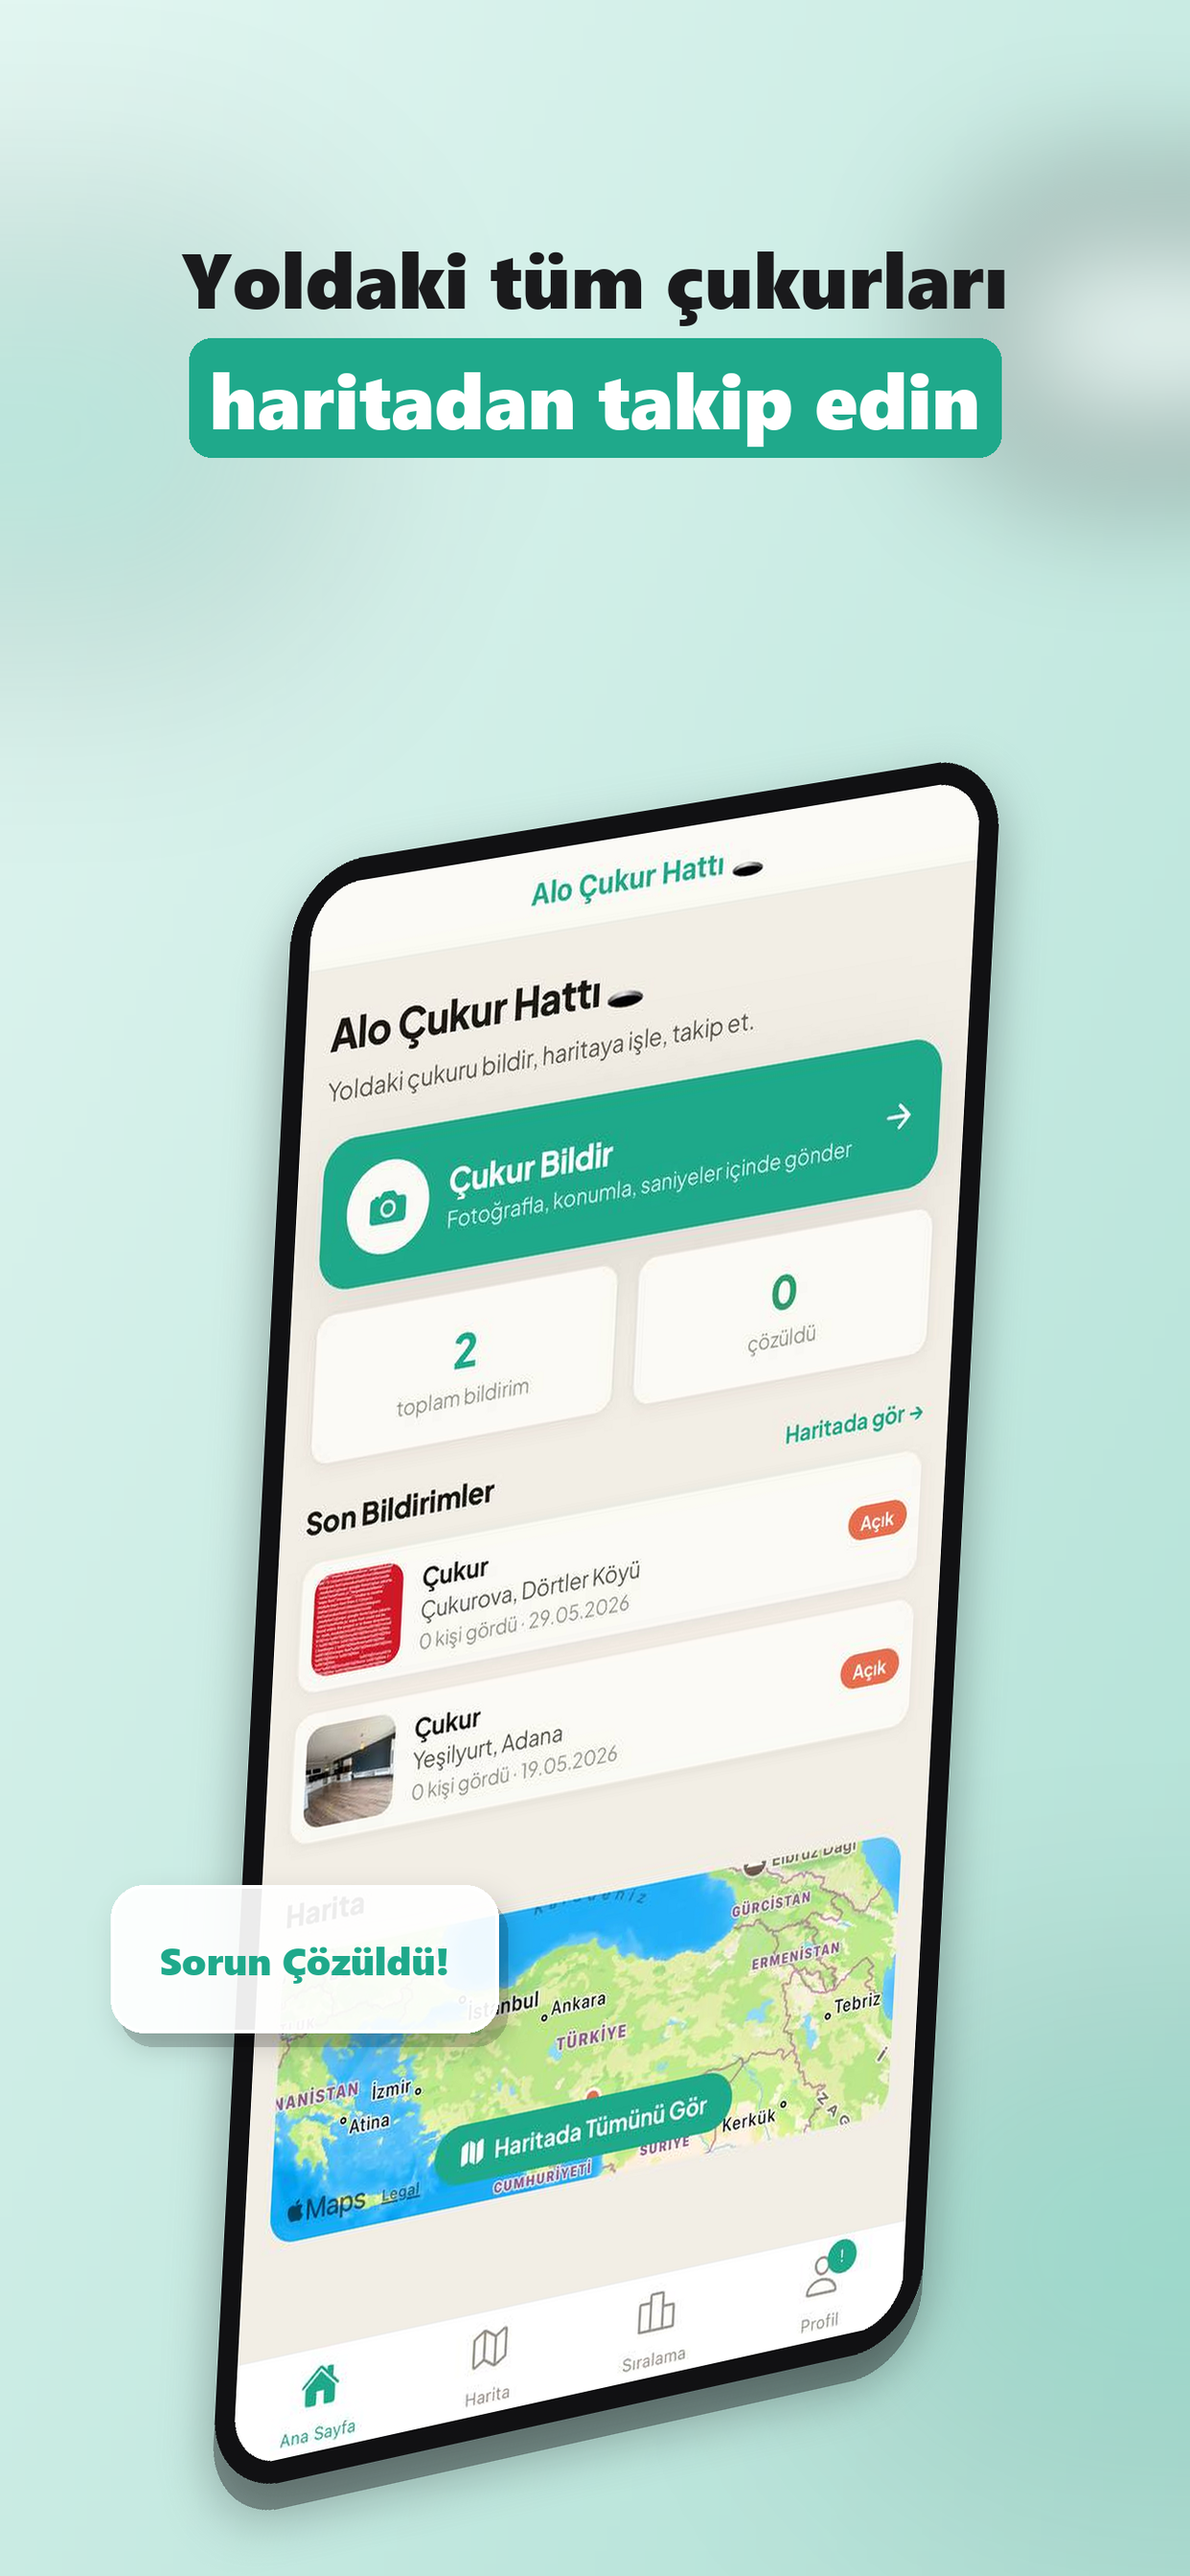
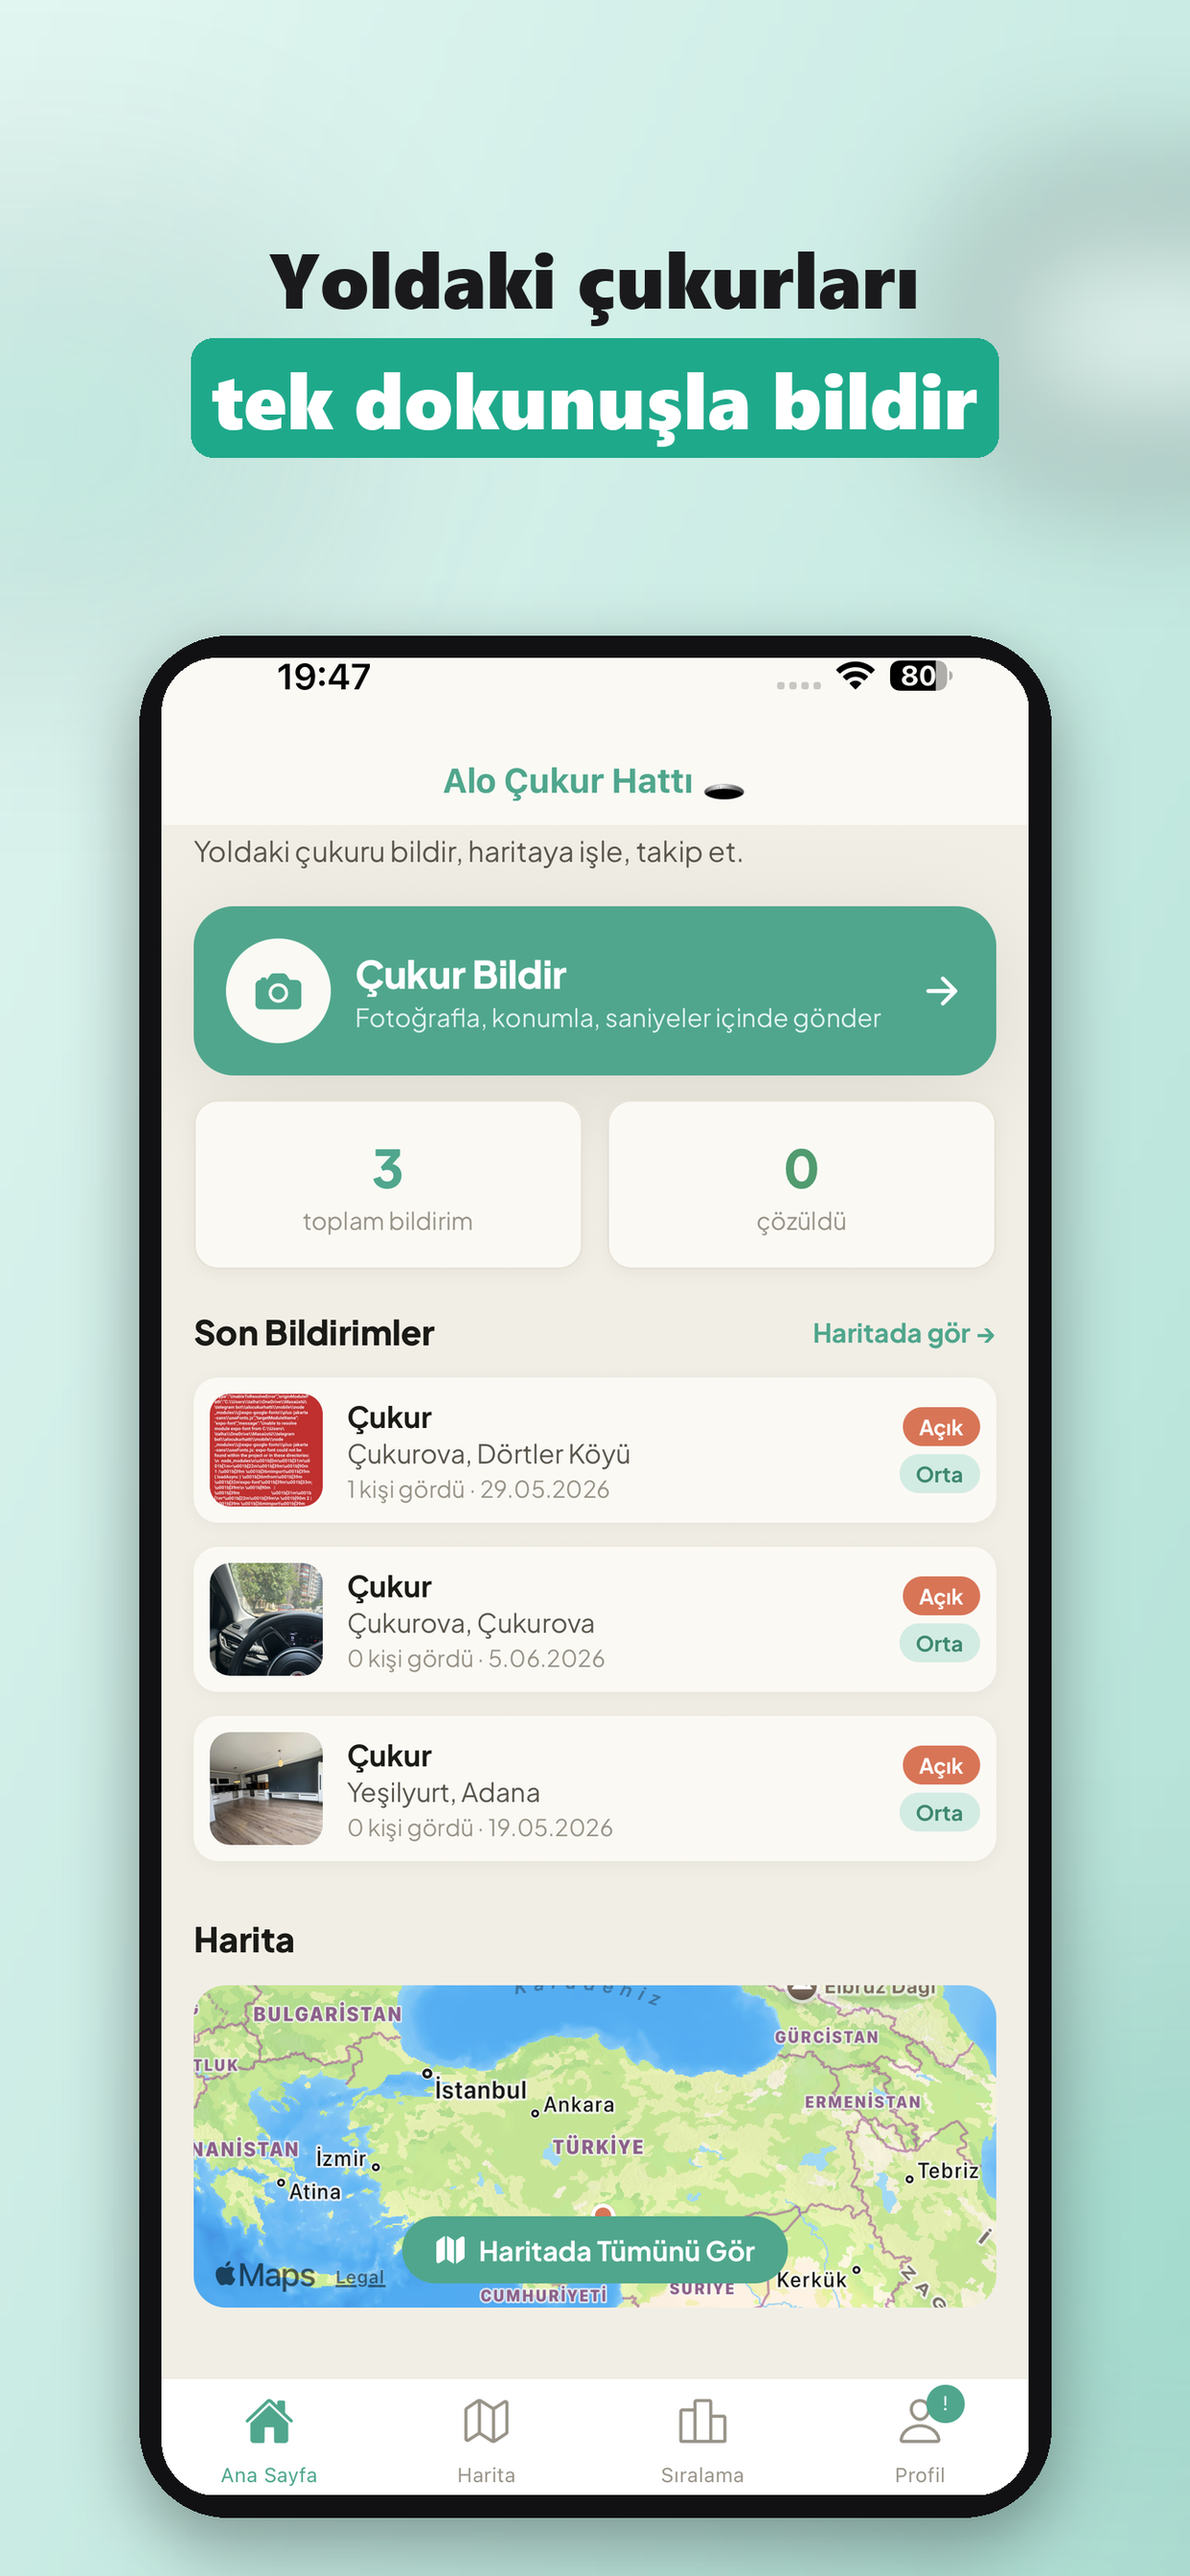
assets: App Store ekran goruntuleri yeni build'e gore (duz cerceve, 6.5/6.9)
- make_app_store_screenshots.py yeni kaynaklara (ekrangoruntuleri) ve duz
  (3D olmayan) yerlesime guncellendi
- 6.5-framed + 6.9-framed: ana-sayfa/harita/siralama/giris yeniden uretildi
- eski tilt'li 01-cukur-bildir / 03-hesap-olustur kaldirildi

diff --git a/app-store-assets/make_app_store_screenshots.py b/app-store-assets/make_app_store_screenshots.py
@@ -10,7 +10,7 @@ WHITE = (255, 255, 255)
 FONT_BOLD = r"C:\Windows\Fonts\seguibl.ttf"
 
 ROOT = Path(__file__).resolve().parents[1]
-SRC = ROOT / "ekrangor"
+SRC = ROOT / "ekrangoruntuleri"
 OUT_69 = ROOT / "app-store-assets" / "screenshots" / "6.9-framed"
 OUT_65 = ROOT / "app-store-assets" / "screenshots" / "6.5-framed"
 
@@ -23,40 +23,40 @@ THEMES = {
 # SHOTS configuration: (source_img, dest_img, theme, headlines, crop_top, tilt_direction, badge_text)
 SHOTS = [
     (
-        "photo_2026-05-31_04-26-22 (3).jpg",
+        "IMG_2583.PNG",
         "00-ana-sayfa.png",
         "mint",
-        [[("Yoldaki tüm çukurları", False)], [("haritadan takip edin", True)]],
-        78,
+        [[("Yoldaki çukurları", False)], [("tek dokunuşla bildir", True)]],
+        60,
         "right",
-        "Sorun Çözüldü!"
+        "Hızlı Bildirim"
     ),
     (
-        "photo_2026-05-31_04-26-22 (2).jpg",
-        "01-cukur-bildir.png",
-        "mint",
-        [[("Çukuru fotoğrafla", False)], [("saniyeler içinde bildir", True)]],
-        78,
-        "left",
-        "Konum Algılandı"
-    ),
-    (
-        "photo_2026-05-31_04-26-22.jpg",
-        "02-siralama.png",
+        "IMG_2584.PNG",
+        "01-harita.png",
         "blue",
-        [[("Şehrindeki sorunları", False)], [("şeffafça takip et", True)]],
-        78,
-        "right",
-        "Aktif Belediyeler"
+        [[("Tüm yol hasarları", False)], [("haritada tek yerde", True)]],
+        60,
+        "left",
+        "Canlı Harita"
     ),
     (
-        "photo_2026-05-31_04-26-21.jpg",
-        "03-hesap-olustur.png",
+        "IMG_2585.PNG",
+        "02-siralama.png",
         "amber",
-        [[("Raporlarını takip et", False)], [("çözülünce haberdar ol", True)]],
-        92,
+        [[("Belediyeleri", False)], [("şeffafça karşılaştır", True)]],
+        60,
+        "right",
+        "Şeffaf Sıralama"
+    ),
+    (
+        "IMG_2586.PNG",
+        "03-giris.png",
+        "mint",
+        [[("Saniyeler içinde", False)], [("ücretsiz başla", True)]],
+        60,
         "left",
-        "Güvenli Giriş"
+        "Üyeliksiz Kullan"
     ),
 ]
 
@@ -144,130 +144,46 @@ def draw_headline(canvas, lines, font, accent):
 def make(source, destination, theme_name, lines, crop_top, tilt, badge_text, font):
     color_a, color_b, accent = THEMES[theme_name]
     background = diagonal_gradient(color_a, color_b).convert("RGBA")
-    background = soft_circle(background, 120, 470, 230, accent, 46)
-    background = soft_circle(background, W - 90, 360, 150, WHITE, 150)
-    background = soft_circle(background, W - 120, H - 360, 260, accent, 38)
+    background = soft_circle(background, 120, 470, 230, accent, 34)
+    background = soft_circle(background, W - 90, 360, 150, WHITE, 120)
+    background = soft_circle(background, W - 120, H - 360, 260, accent, 26)
 
     # Load and crop screenshot
     shot = Image.open(source).convert("RGB")
     shot = shot.crop((0, crop_top, shot.width, shot.height))
-    screen_width = 880
+
+    # Flat, straight phone — normal size, centered (no 3D perspective).
+    screen_width = 940
     screen_height = round(screen_width / (shot.width / shot.height))
     shot = shot.resize((screen_width, screen_height), Image.Resampling.LANCZOS)
 
-    # Flat mockup measurements
-    bezel = 26
-    body_width, body_height = screen_width + 2 * bezel, screen_height + 2 * bezel
-    padding = 100
-    temp_w, temp_h = body_width + 2 * padding, body_height + 2 * padding
-
-    # Temporary canvas for drawing flat phone
-    temp_canvas = Image.new("RGBA", (temp_w, temp_h), (0, 0, 0, 0))
-    draw_temp = ImageDraw.Draw(temp_canvas)
-
-    # Soft shadow on temp canvas
-    shadow_offset = 30
-    draw_temp.rounded_rectangle(
-        [padding, padding + shadow_offset, padding + body_width, padding + body_height + shadow_offset],
-        92,
-        fill=(15, 15, 18, 90),
-    )
-    temp_canvas = Image.alpha_composite(temp_canvas, temp_canvas.filter(ImageFilter.GaussianBlur(32)))
-    draw_temp = ImageDraw.Draw(temp_canvas)
-
-    # Draw phone body
-    draw_temp.rounded_rectangle(
-        [padding, padding, padding + body_width, padding + body_height],
-        92,
-        fill=BODY
-    )
-
-    # Paste screenshot
-    shot_rounded = rounded(shot, 62)
-    temp_canvas.paste(shot_rounded, (padding + bezel, padding + bezel), shot_rounded)
-
-    # Calculate 3D perspective coordinates on background
+    bezel = 24
+    body_width = screen_width + 2 * bezel
+    body_height = screen_height + 2 * bezel
     body_x = (W - body_width) // 2
-    body_y = 820
+    body_y = 690
 
-    dx0, dy0 = body_x - padding, body_y - padding
-    dx1, dy1 = body_x + body_width + padding, body_y - padding
-    dx2, dy2 = body_x + body_width + padding, body_y + body_height + padding
-    dx3, dy3 = body_x - padding, body_y + body_height + padding
-
-    src_pts = [
-        (0, 0),
-        (temp_w, 0),
-        (temp_w, temp_h),
-        (0, temp_h)
-    ]
-
-    if tilt == "right":
-        dst_pts = [
-            (dx0 + 160, dy0 + 140), # TL
-            (dx1 - 40, dy1 - 10),   # TR
-            (dx2 - 140, dy2 - 150), # BR
-            (dx3 + 60, dy3 + 60)    # BL
-        ]
-    else:  # left tilt
-        dst_pts = [
-            (dx0 + 50, dy0 - 10),   # TL
-            (dx1 - 160, dy1 + 140), # TR
-            (dx2 - 60, dy2 + 60),   # BR
-            (dx3 + 140, dy3 - 150)  # BL
-        ]
-
-    coeffs = get_perspective_coeffs(src_pts, dst_pts)
-    warped_phone = temp_canvas.transform((W, H), Image.PERSPECTIVE, coeffs, Image.BICUBIC)
-
-    # Paste warped phone onto background
-    background = Image.alpha_composite(background, warped_phone)
-
-    # Draw floating glassmorphic badge
-    badge_w, badge_h = 420, 160
-    if tilt == "right":
-        badge_x, badge_y = 120, H - 750
-    else:
-        badge_x, badge_y = W - badge_w - 120, H - 750
-
-    badge_canvas = Image.new("RGBA", (W, H), (0, 0, 0, 0))
-    draw_badge = ImageDraw.Draw(badge_canvas)
-
-    # Badge shadow
-    draw_badge.rounded_rectangle(
-        [badge_x + 10, badge_y + 15, badge_x + badge_w + 10, badge_y + badge_h + 15],
-        36,
-        fill=(0, 0, 0, 45)
+    # Soft straight drop shadow
+    shadow = Image.new("RGBA", (W, H), (0, 0, 0, 0))
+    ImageDraw.Draw(shadow).rounded_rectangle(
+        [body_x, body_y + 28, body_x + body_width, body_y + body_height + 28],
+        96,
+        fill=(15, 15, 18, 95),
     )
-    badge_canvas = Image.alpha_composite(badge_canvas, badge_canvas.filter(ImageFilter.GaussianBlur(16)))
-    draw_badge = ImageDraw.Draw(badge_canvas)
+    background = Image.alpha_composite(background, shadow.filter(ImageFilter.GaussianBlur(36)))
 
-    # Badge container (semi-transparent glass card)
-    draw_badge.rounded_rectangle(
-        [badge_x, badge_y, badge_x + badge_w, badge_y + badge_h],
-        36,
-        fill=(255, 255, 255, 235),
-        outline=WHITE + (255,),
-        width=4
+    # Phone body
+    body = Image.new("RGBA", (W, H), (0, 0, 0, 0))
+    ImageDraw.Draw(body).rounded_rectangle(
+        [body_x, body_y, body_x + body_width, body_y + body_height], 96, fill=BODY
     )
+    background = Image.alpha_composite(background, body)
 
-    # Badge text
-    try:
-        font_b = ImageFont.truetype(FONT_BOLD, 42)
-    except:
-        font_b = ImageFont.load_default()
+    # Screenshot inside the bezel
+    shot_rounded = rounded(shot, 60)
+    background.paste(shot_rounded, (body_x + bezel, body_y + bezel), shot_rounded)
 
-    # Center text inside the card
-    text_bbox = draw_badge.textbbox((0, 0), badge_text, font=font_b)
-    text_w = text_bbox[2] - text_bbox[0]
-    text_h = text_bbox[3] - text_bbox[1]
-    tx = badge_x + (badge_w - text_w) // 2
-    ty = badge_y + (badge_h - text_h) // 2 - 8 # slight visual adjustment
-
-    draw_badge.text((tx, ty), badge_text, font=font_b, fill=accent)
-    background = Image.alpha_composite(background, badge_canvas)
-
-    # Draw headline text
+    # Headline text (top)
     draw_headline(background, lines, font, accent)
 
     # Save to destination
